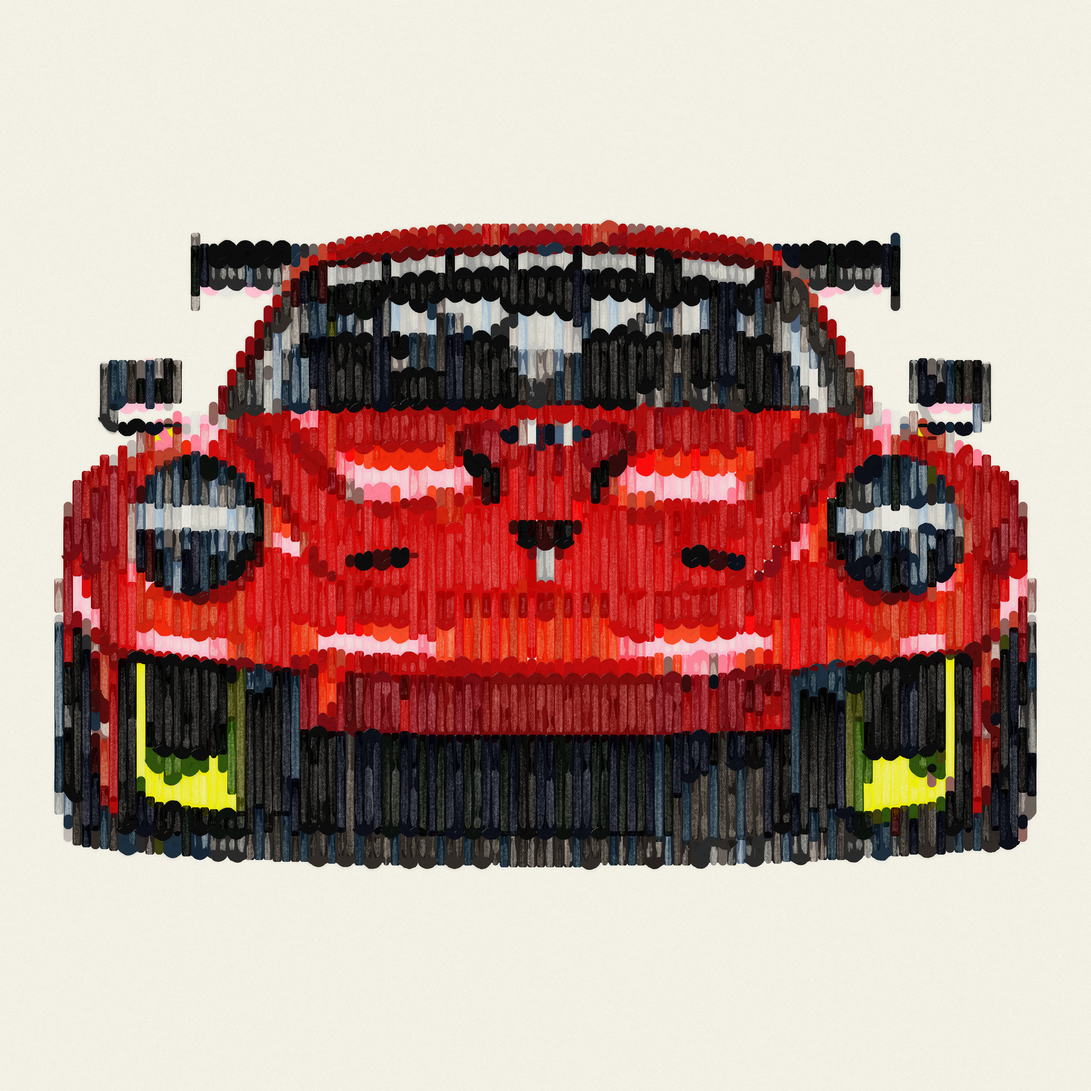
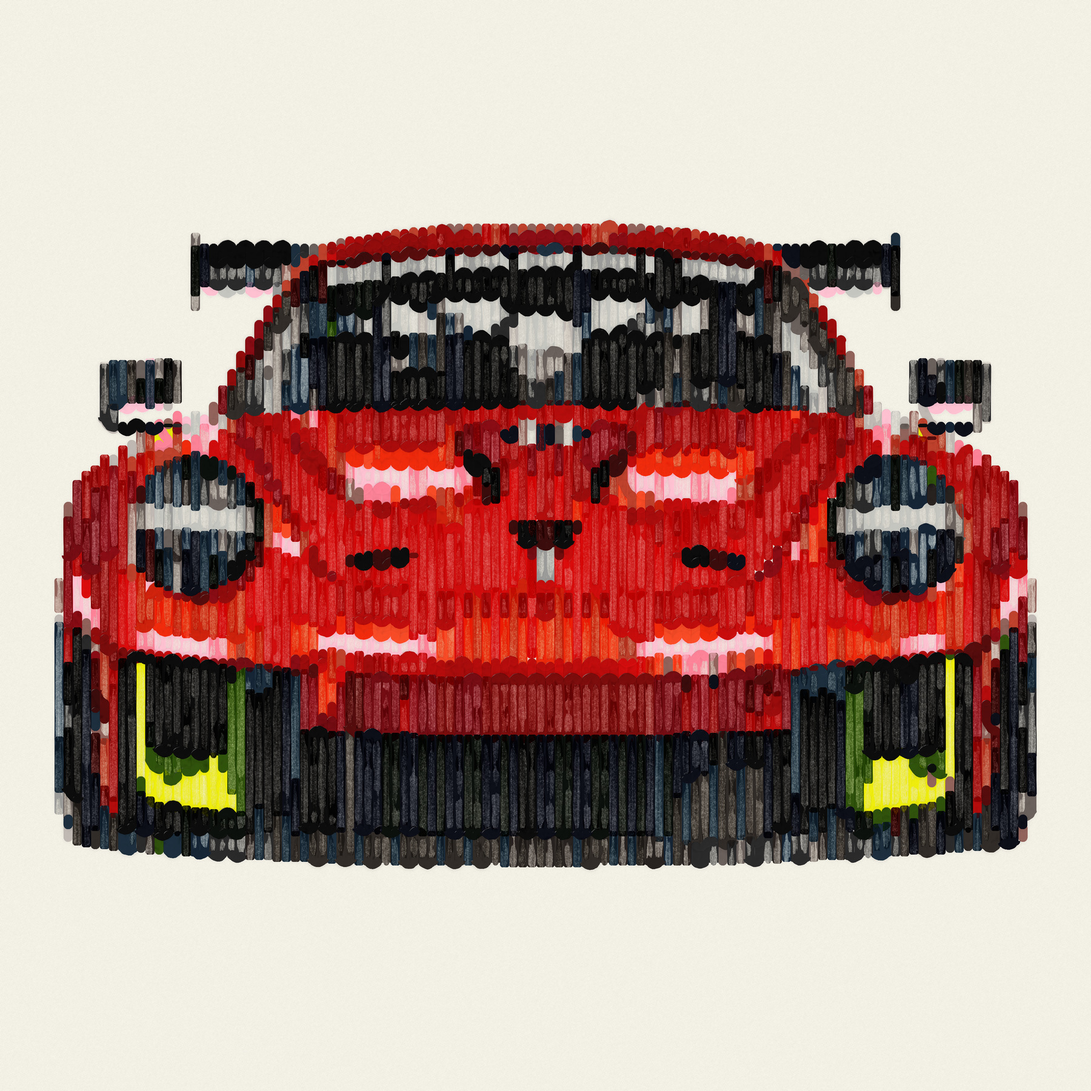
FORM-G: GT v.2 Kuzya by the canon of the jars, 43 to 35, the owner's choice of moves

diff --git a/app/test/colors.test.js b/app/test/colors.test.js
@@ -20,8 +20,8 @@ test('the registry: every jar of every picture, its key its own, in the plan\'s 
   const five = E.filter(e => e.name === 'Jar 5');
   assert.ok(new Set(five.map(e => e.hex)).size > 1 && new Set(five.map(e => e.key)).size === five.length, '"Jar 5" is another paint in every picture, and another key');
   const v2 = E.filter(e => e.art === 'porsche-race-k');
-  assert.equal(v2.length, 43);
-  assert.equal(v2.filter(e => e.coats === 2).length, 28);
+  assert.equal(v2.length, 35);   // 43, then the jar canon on the owner's word (2026-11-10): eight jars under 60 cm into their nearest, not 22, 10, 31
+  assert.equal(v2.filter(e => e.coats === 2).length, 24);
   console.log(`registry: ${plans.length} pictures, ${E.length} jars, ${new Set(E.map(e => e.hex)).size} hexes`);
 });
 

diff --git a/FORM-G/generator/jarcanon.py b/FORM-G/generator/jarcanon.py
@@ -1,0 +1,55 @@
+#!/usr/bin/env python3
+"""The canon of the jars on a finished FORM-G plan (README, "How many jars — the canvas's long side"), jar by jar on the owner's word: a jar out, its cells to
+the jar named, every leg still painted, none moved; the names kept as they are (no jar renumbered — Kuzya's audit: "do not renumber jars in existing plans").
+The plan's json changed in place, its render painted again from the generator's grid with the same moves.
+
+  python jarcanon.py <id> <plan .pkl> <out jpg> Jar9=Jar15 Jar29=Jar25 …"""
+import sys, os, json, pickle
+import numpy as np
+from PIL import Image
+import hyper2 as H
+from watchplan import P
+import paintrun
+
+which, pkl, out = sys.argv[1:4]
+moves = [a.split('=') for a in sys.argv[4:]]
+path = os.path.join(os.path.dirname(os.path.abspath(__file__)), '..', '..', 'app', 'formg', f'{which}.json')
+pic = json.load(open(path))
+byname = {j['name'].replace(' ', ''): j for j in pic['jars']}
+d = pickle.load(open(pkl, 'rb'))
+grid = d['grid'].copy()
+for a, b in moves:
+    ja, jb = byname[a], byname[b]
+    ia, ib = int(ja['id'][1:]), int(jb['id'][1:])          # a json jar's id is its index in the plan's jars (export_formg.py)
+    assert d['jars'][ia][1] == ja['hex'] and d['jars'][ib][1] == jb['hex'], (a, b)
+    jb['cells'] += ja['cells']
+    for n, c in enumerate(jb['cells']):
+        c['n'] = n + 1
+    pic['jars'].remove(ja)
+    grid[grid == ia] = ib
+    print(f'{ja["name"]} {ja["hex"]} → {jb["name"]} {jb["hex"]}: {len(ja["cells"])} cells')
+json.dump(pic, open(path, 'w'), separators=(',', ':'))
+print(which, 'jars', len(pic['jars']), 'of them two layers', sum(1 for j in pic['jars'] if j['coats'] == 2))
+
+
+class Plan:
+    pass
+
+
+pl = Plan()
+pl.grid, pl.form = grid, d['form']
+pl.R, pl.N = grid.shape
+pl.W, pl.H = pic['w'], pic['h']
+pl.xs = (pl.W - pl.N * 5.0) / 2 + 5.0 * (np.arange(pl.N) + 0.5)
+pl.forms = [dict(name='body', idle=True, dose=1.0), dict(name='dark', idle=False, dose=1.3)]
+P.clear()
+pl.pids = []
+for i, (name, hexv, coats) in enumerate(d['jars']):
+    P[f'j{i}'] = H.jar(hexv, coats, name)
+    P[f'j{i}'].name = name
+    pl.pids.append(f'j{i}')
+paintrun.STEP_MAX = 7.0
+img, st = H.paint_all(pl, 6)
+Image.fromarray((np.clip(img, 0, 1) * 255).astype(np.uint8)).resize((pl.W * 3, pl.H * 3), Image.LANCZOS).save(out, quality=93, subsampling=0)
+pickle.dump(dict(grid=grid, form=d['form'], st=st, jars=d['jars']), open(out + '.pkl', 'wb'))
+print('render', out, 'jars painted', len(st['per']))

diff --git a/CHANGELOG.md b/CHANGELOG.md
@@ -5,6 +5,11 @@ Machine measurements stay in RUBENS: `../Rubens/CALIBRATION.md`.
 
 ## After v.1.2.3 — 2026-11-10
 
+- **GT v.2 Kuzya: the canon of the jars, 43 → 35** (the owner, the same night, of the canon's nine — every jar with less line than the canvas's long side,
+  60 cm, into the jar nearest in colour: "Jar 9, Jar 29 and Jar 19 go into other jars — these may. Better not touch 22, 10 and 31"). Eight moved: Jar 28 → 27,
+  Jar 11 → 12, Jar 9 → 15, Jar 5 → 4, Jar 2 → 4, Jar 40 → Seam, Jar 29 → 25, Jar 19 → 20; Jar 32 stays, it would have gone into 31. No jar renumbered (Kuzya's
+  audit): the names as they were, a gap where a jar went. Every leg still painted, none moved; 24 of the 35 two layers. `FORM-G/generator/jarcanon.py` does it
+  on the finished plan, the render painted again from the generator's grid with the same moves.
 - **COLORS: every picture's jars, and a recipe for each from the model** (the owner, the same night, at the table with the jars: "I am a little lost;
   I do not know where to start … 43 against 49 is good. But how to mix them?"; Kuzya's audit `FORM-G/Rembrandt_COLORS_FORM-G_Registry_Audit_Claude_2026-11-10.pdf`:
   "COLORS needs a registry, not 170 manual cards"). A row of pictures over the jars: LAB · real 3 as it was (its hand recipes, its ticks), and every picture of
